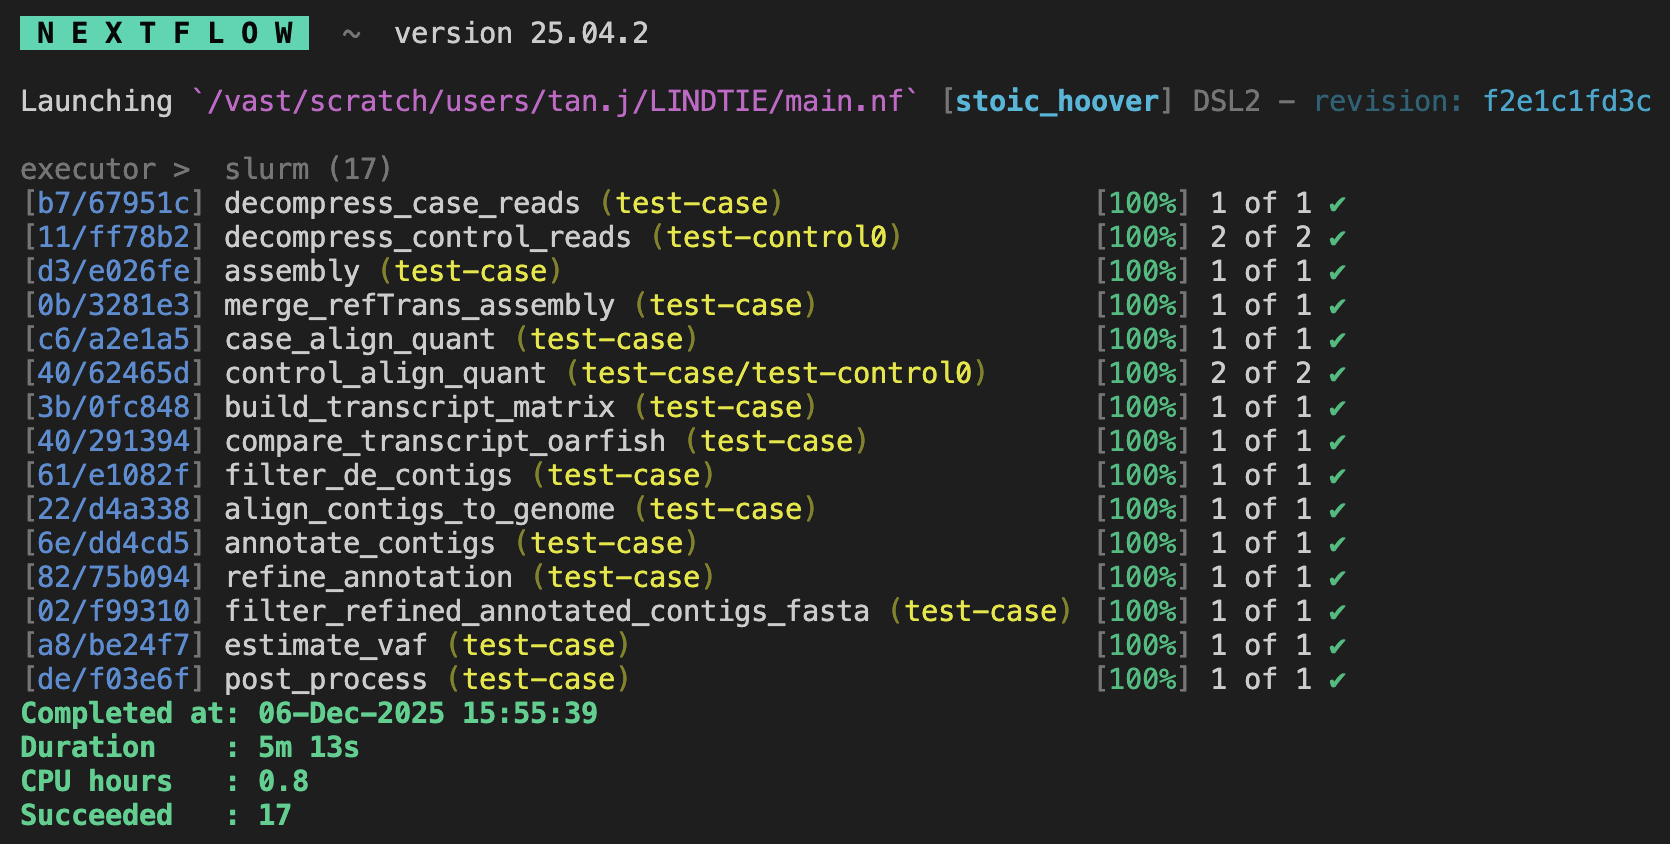
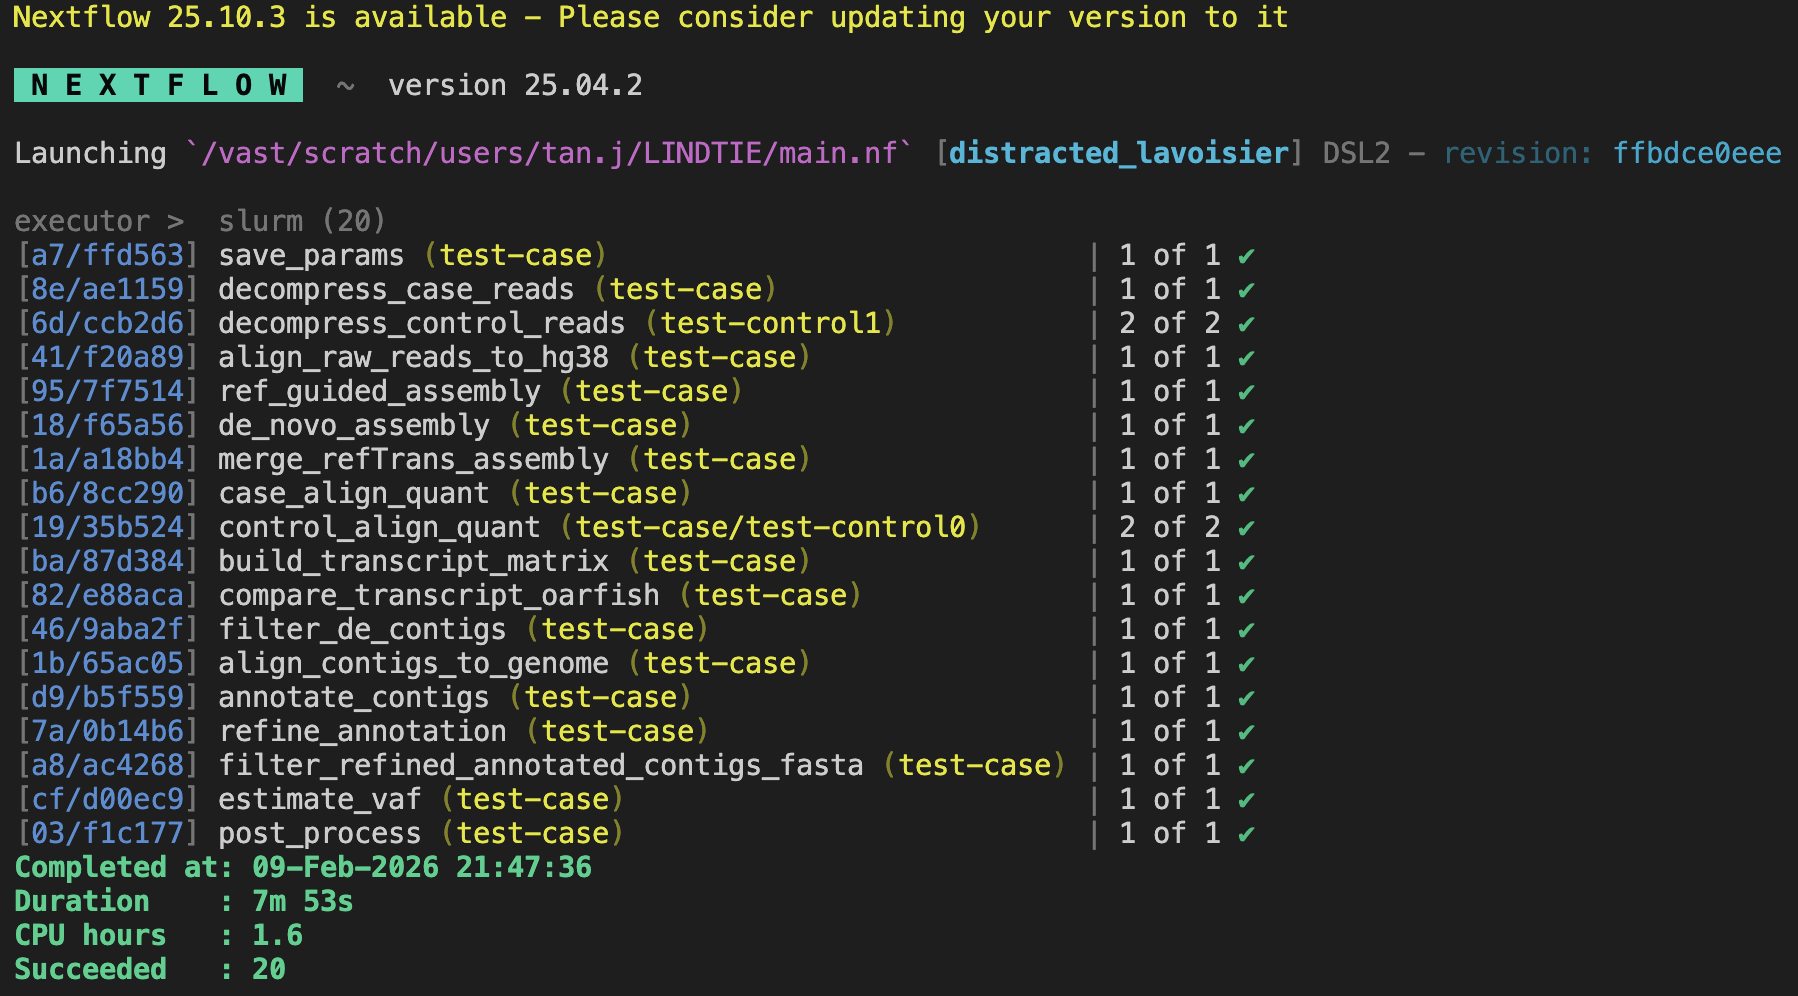
update documentation

Changed region(s): [[0.0, 0.0, 0.9964, 0.9858]]

diff --git a/docs/index.html b/docs/index.html
@@ -1616,7 +1616,7 @@
 
                 <p>LINDTIE is a tool designed to identify aberrant transcripts in cancer using long-read RNA-seq data generated by platforms such as Oxford Nanopore Technologies (ONT) and PacBio. It extends beyond canonical gene fusions to capture the full spectrum of cancer transcriptome rearrangements, including fusion, transcribed structural variant (TSV), and novel splice variant (NSV). The pipeline accepts raw transcriptome (RNA-seq) FASTQ files from case and control samples and produces TSV files containing the novel variants it identifies.</p>
 
-                <p>LINDTIE uses a reference-free approach that integrates de novo assembly with differential transcript expression analysis to uncover previously uncharacterized transcripts. The workflow consists of four core procedures: de novo assembly, quantification, differential expression analysis, and annotation.</p>
+                <p>LINDTIE uses a hybrid strategy that integrates reference-free de novo assembly with reference-guided assembly, combined with differential transcript expression analysis, to uncover previously uncharacterised transcripts. The workflow consists of four core procedures: assembly, quantification, differential expression analysis, and annotation.</p>
 
                 <p>LINDTIE is implemented in <a href="https://www.nextflow.io/docs/latest/index.html" target="_blank">Nextflow</a>, providing users with enhanced control over pipeline execution, including the ability to interrupt runs, adjust parameters from the command line, and resume analyses from previous checkpoints.</p>
 
@@ -1648,7 +1648,7 @@
                             </div>
                             <div class="quick-start-step-content">
                                 <div class="quick-start-step-title">Get References</div>
-                                <div class="quick-start-step-desc"><a href="https://zenodo.org/records/18294960" target="_blank">Zenodo</a> (1.2GB)</div>
+                                <div class="quick-start-step-desc"><a href="https://zenodo.org/records/18531809" target="_blank">Zenodo</a> (1.06GB)</div>
                             </div>
                         </div>
                         <div class="quick-start-step">
@@ -1718,9 +1718,9 @@
                         <div style="display: flex; align-items: center; gap: 16px;">
                             <div style="background: var(--primary-gold); color: #ffffff; border-radius: 50%; width: 32px; height: 32px; display: flex; align-items: center; justify-content: center; font-weight: bold; flex-shrink: 0;">1</div>
                             <div style="flex: 1; background: var(--bg-card); border-radius: 8px; padding: 16px; border-left: 4px solid var(--primary-gold);">
-                                <div style="color: var(--text-primary); font-weight: 600;">De Novo Assembly</div>
-                                <div style="color: var(--text-secondary); font-size: 13px; margin-top: 4px;">RNA-Bloom2 assembles reads into contigs without reference bias</div>
-                                <div style="color: var(--text-muted); font-size: 12px; margin-top: 8px;">Tool: RNA-Bloom2</div>
+                                <div style="color: var(--text-primary); font-weight: 600;">Assembly</div>
+                                <div style="color: var(--text-secondary); font-size: 13px; margin-top: 4px;">Assemble reads into contigs using hybrid strategy: reference-free de novo assembly and reference-guided assembly</div>
+                                <div style="color: var(--text-muted); font-size: 12px; margin-top: 8px;">Tools: RNA-Bloom2, StringTie2</div>
                             </div>
                         </div>
                         <div style="text-align: center; color: var(--primary-gold);">&#x2193;</div>
@@ -1905,10 +1905,10 @@ withLabel: 'process_long' {
             <section class="section" id="references">
                 <h1>Setting Up References</h1>
 
-                <p>Download the compressed pre-built reference package from <a href="https://zenodo.org/records/18294960" target="_blank">Zenodo</a> (1.2GB):</p>
+                <p>Download the compressed pre-built reference package from <a href="https://zenodo.org/records/18531809" target="_blank">Zenodo</a> (1.06GB):</p>
                 <div class="code-block">
                     <button class="copy-btn" onclick="copyCode(this)">Copy</button>
-                    <pre><code>curl -O https://zenodo.org/records/18294960/files/LINDTIE_ref.tar.gz
+                    <pre><code>curl -O https://zenodo.org/records/18531809/files/LINDTIE_ref.tar.gz
 
 # decompress the tar.gz file and remove the tar.gz file                        
 tar xzf LINDTIE_ref.tar.gz && rm LINDTIE_ref.tar.gz</code></pre>
@@ -1920,14 +1920,12 @@ tar xzf LINDTIE_ref.tar.gz && rm LINDTIE_ref.tar.gz</code></pre>
                     <button class="copy-btn" onclick="copyCode(this)">Copy</button>
                     <pre><code>LINDTIE/
 └── ref/
-    ├── chess3.0.fa
-    ├── chess3.0.gtf
-    ├── chess3.0.info
-    ├── Cosmic_CancerGeneCensus_v103_GRCh38_tier.tsv
-    ├── gencode.v49.primary_assembly.annotation.gtf
-    ├── hg38.fa
-    ├── hg38.fa.fai
+    ├── chess3.0_with_HTLV1_HPV_HBV_HIV1_HIV2_EBV.fa
+    ├── chess3.0_with_HTLV1_HPV_HBV_HIV1_HIV2_EBV.gtf
+    ├── chess3.0_with_HTLV1_HPV_HBV_HIV1_HIV2_EBV.info
+    ├── Cosmic_CancerGeneCensus_v103_GRCh38_tier_fusion.tsv
     ├── hg38_splice_junctions.bed
+    ├── hg38_with_HTLV1_HPV_HBV_HIV1_HIV2_EBV.fa
     └── tx2gene.txt
 </code></pre>
                 </div>
@@ -2083,8 +2081,8 @@ mkdir -p controls</code></pre>
 #SBATCH --time=24:00:00
 #SBATCH --mail-type=BEGIN,END,FAIL
 #SBATCH --mail-user=[email redacted]
-#SBATCH --output=script_output/%x.out
-#SBATCH --error=script_output/%x.err
+#SBATCH --output=script_output/%x_%J.out
+#SBATCH --error=script_output/%x_%J.err
 
 module load nextflow/25.04.2 singularity/4.1.5
 
@@ -2111,9 +2109,15 @@ nextflow run $LINDTIE_dir/main.nf -params-file $LINDTIE_dir/params.yaml -profile
                         <tbody>
                             <tr>
                                 <td>⭐ <code>assembly_mode</code></td>
-                                <td>Determines the assembly strategy used by the pipeline</td>
+                                <td>
+                                    <p>Determines the assembly strategy used by the pipeline.</p>
+                                    <p><code>"hybrid"</code>: Combines reference-guided and de novo approaches.</p>
+                                    <p><code>"denovo"</code>: Performs assembly without a reference genome.</p>
+                                    <p><code>"denovo_subset"</code>: Performs de novo assembly on a user-specified subset of reads; the remaining reads are assembled using a reference-guided approach.</p>
+                                    <p><code>"ref_guided"</code>: Uses a reference genome to guide assembly.</p>
+                                </td>
                                 <td><code>hybrid</code></td>
-                                <td><code>"hybrid"</code>, <code>"denovo"</code>, or <code>"ref_guided"</code></td>
+                                <td><code>"hybrid"</code>, <code>"denovo"</code>, <code>"denovo_subset"</code>, or <code>"ref_guided"</code></td>
                                 <td><span class="category-badge">Assembly</span></td>
                             </tr>
                             <tr>
@@ -2129,6 +2133,13 @@ nextflow run $LINDTIE_dir/main.nf -params-file $LINDTIE_dir/params.yaml -profile
                                 <td><code>map-ont</code></td>
                                 <td><code>"map-ont"</code>, <code>"map-pb"</code>, <code>"map-hifi"</code>, or <code>"lr:hq"</code></td>
                                 <td><span class="category-badge">Quantification</span></td>
+                            </tr>
+                            <tr>
+                                <td>⭐ <code>subset_count</code></td>
+                                <td>Specifies the number of reads to subset when the <code>"denovo_subset"</code> mode is selected.</td>
+                                <td><code>NULL</code></td>
+                                <td>integer (e.g., <code>1000000</code>) or <code>NULL</code></td>
+                                <td><span class="category-badge">Assembly</span></td>
                             </tr>
                             <tr>
                                 <td><code>oarfish_num_bootstraps</code></td>
@@ -2166,6 +2177,13 @@ nextflow run $LINDTIE_dir/main.nf -params-file $LINDTIE_dir/params.yaml -profile
                                 <td><span class="category-badge">DE Analysis</span></td>
                             </tr>
                             <tr>
+                                <td><code>⭐detect_viral_integration</code></td>
+                                <td>Toggle to enable or disable the detection of viral integration variants</td>
+                                <td><code>false</code></td>
+                                <td><code>true</code> or <code>false</code></td>
+                                <td><span class="category-badge">Detection</span></td>
+                            </tr>
+                            <tr>
                                 <td><code>min_clip</code></td>
                                 <td>Minimum clipped sequence length to trigger SV detection</td>
                                 <td><code>20</code></td>
@@ -2191,6 +2209,13 @@ nextflow run $LINDTIE_dir/main.nf -params-file $LINDTIE_dir/params.yaml -profile
                                 <td>Maximum allowed mismatches for splice motifs</td>
                                 <td><code>1</code></td>
                                 <td>integer (e.g., <code>1</code>)</td>
+                                <td><span class="category-badge">Detection</span></td>
+                            </tr>
+                            <tr>
+                                <td><code>single_sample_min_vaf</code></td>
+                                <td>Minimum variant allele frequency (VAF) threshold for retaining variants when <code>RUN_DE</code> is <code>false</code></td>
+                                <td><code>0.1</code></td>
+                                <td>numeric (e.g., <code>0.1</code>)</td>
                                 <td><span class="category-badge">Detection</span></td>
                             </tr>
                             <tr>
@@ -2529,58 +2554,68 @@ single_sample_min_vaf: 0.1  # default 0.1
                         </tr>
                         <tr>
                             <td>33</td>
+                            <td>COSMIC_fusion</td>
+                            <td>Indicates whether any gene involved in the event is listed in COSMIC Fusion. Yes means at least one overlapping gene is reported as a fusion partner in COSMIC; No means none are listed.</td>
+                        </tr>
+                        <tr>
+                            <td>34</td>
                             <td>site1_feature</td>
                             <td>The genomic feature annotation at the exact position of end 1 (e.g., CDS, UTR, intron, intergenic).</td>
                         </tr>
                         <tr>
-                            <td>34</td>
+                            <td>35</td>
                             <td>site2_feature</td>
                             <td>The genomic feature annotation at the exact position of end 2 (e.g., CDS, UTR, intron, intergenic).</td>
                         </tr>
                         <tr>
-                            <td>35</td>
+                            <td>36</td>
                             <td>is_coding</td>
                             <td>Indicates whether the variant involves coding regions. This is determined by evaluating whether site1_feature and site2_feature are annotated as coding sequences (i.e., CDS).</td>
                         </tr>
                         <tr>
-                            <td>36</td>
+                            <td>37</td>
                             <td>contig_id</td>
                             <td>Contig name from the de novo assembly.</td>
                         </tr>
                         <tr>
-                            <td>37</td>
+                            <td>38</td>
                             <td>unique_contig_ID</td>
                             <td>ID of the modified SuperTranscript used in visualization outputs.</td>
                         </tr>
                         <tr>
-                            <td>38</td>
+                            <td>39</td>
                             <td>contig_len</td>
                             <td>Length of the contig sequence.</td>
                         </tr>
                         <tr>
-                            <td>39</td>
+                            <td>40</td>
                             <td>contig_cigar</td>
                             <td>CIGAR string representing the contig's genome alignment (may contain two strings if soft/hard-clipped).</td>
                         </tr>
                         <tr>
-                            <td>40</td>
+                            <td>41</td>
                             <td>seq_loc1</td>
                             <td>Location string for the first sequence region (e.g., contig123:100–140).</td>
                         </tr>
                         <tr>
-                            <td>41</td>
+                            <td>42</td>
                             <td>seq_loc2</td>
                             <td>Location string for the second sequence region, if applicable.</td>
                         </tr>
                         <tr>
-                            <td>42</td>
+                            <td>43</td>
                             <td>seq1</td>
                             <td>20 bp sequence around the main variant site.</td>
                         </tr>
                         <tr>
-                            <td>43</td>
+                            <td>44</td>
                             <td>seq2</td>
                             <td>20 bp sequence around the second variant site (if applicable).</td>
+                        </tr>
+                        <tr>
+                            <td>45</td>
+                            <td>variant_score</td>
+                            <td>Score used for variant prioritization.</td>
                         </tr>
                     </tbody>
                 </table>
@@ -2601,17 +2636,12 @@ single_sample_min_vaf: 0.1  # default 0.1
                     </thead>
                     <tbody>
                         <tr>
-                            <td>44</td>
-                            <td>variant_score</td>
-                            <td>Score used for variant prioritization (from the new scoring system).</td>
-                        </tr>
-                        <tr>
-                            <td>45</td>
+                            <td>46</td>
                             <td>rank_within_contig</td>
                             <td>Rank of each annotation for a given contig based on its score; <strong>1 = highest-scoring annotation</strong>.</td>
                         </tr>
                         <tr>
-                            <td>46</td>
+                            <td>47</td>
                             <td>is_primary</td>
                             <td>Indicates whether this annotation was selected as the <em>primary</em> variant for that contig (i.e., the entry included in <code>&lt;caseName&gt;_results.tsv</code>).</td>
                         </tr>
@@ -2655,8 +2685,8 @@ single_sample_min_vaf: 0.1  # default 0.1
 │   ├── denovo_read_counts.log (assembly_mode = hybrid or denovo or denovo_subset)
 │   ├── rnabloom.transcripts.fa (assembly_mode = hybrid or denovo or denovo_subset)
 │   ├── read_counts_summary.log (assembly_mode = hybrid or ref_guided or denovo_subset)
-│   ├── confident_mapped.bam (assembly_mode = hybrid or ref_guided or denovo_subset)
-│   ├── reads_all_sorted.bam (assembly_mode = hybrid or ref_guided or denovo_subset)
+│   ├── confident_mapped.bam & confident_mapped.bam.bai (assembly_mode = hybrid or ref_guided or denovo_subset)
+│   ├── reads_all_sorted.bam & reads_all_sorted.bam.bai (assembly_mode = hybrid or ref_guided or denovo_subset)
 │   ├── stringtie2_assembly.fa (assembly_mode = hybrid or ref_guided or denovo_subset)
 │   └── stringtie2_assembly.gtf (assembly_mode = hybrid or ref_guided or denovo_subset)
 ├── 02-Quantification
@@ -3130,7 +3160,7 @@ nextflow run $LINDTIE_dir/main.nf -params-file $LINDTIE_dir/params.yaml -profile
 cases/*.fastq.gz controls/*.fastq.gz</code></pre>
                 </div>
 
-                <p>Approximate run time: 5-6 minutes</p>
+                <p>Approximate run time: 8-10 minutes</p>
 
                 <p>Once LINDTIE has finished running, you should see output on the terminal similar to the following:</p>
                     
@@ -3153,19 +3183,19 @@ cases/*.fastq.gz controls/*.fastq.gz</code></pre>
                         <tbody>
                             <tr>
                                 <td>AS</td>
-                                <td>4</td>
+                                <td>5</td>
                             </tr>
                             <tr>    
                                 <td>DEL</td>
-                                <td>5</td>
+                                <td>6</td>
                             </tr>
                             <tr>
                                 <td>EE</td>
-                                <td>4</td>
+                                <td>6</td>
                             </tr>
                             <tr>
                                 <td>FUS</td>
-                                <td>21</td>
+                                <td>15</td>
                             </tr>
                             <tr>
                                 <td>IGR</td>
@@ -3173,11 +3203,11 @@ cases/*.fastq.gz controls/*.fastq.gz</code></pre>
                             </tr>
                             <tr>
                                 <td>INS</td>
-                                <td>11</td>
+                                <td>15</td>
                             </tr>
                             <tr>
                                 <td>NE</td>
-                                <td>4</td>
+                                <td>1</td>
                             </tr>
                             <tr>
                                 <td>NEJ</td>
@@ -3185,7 +3215,7 @@ cases/*.fastq.gz controls/*.fastq.gz</code></pre>
                             </tr>
                             <tr>
                                 <td>PNJ</td>
-                                <td>2</td>
+                                <td>9</td>
                             </tr>
                             <tr>
                                 <td>RI</td>
@@ -3193,11 +3223,11 @@ cases/*.fastq.gz controls/*.fastq.gz</code></pre>
                             </tr>
                             <tr>
                                 <td>UN</td>
-                                <td>5</td>
+                                <td>4</td>
                             </tr>
                             <tr>
                                 <td><strong>TOTAL</strong></td>
-                                <td><strong>65</strong></td>
+                                <td><strong>70</strong></td>
                             </tr>
                         </tbody>
                     </table>    
@@ -3442,6 +3472,7 @@ bioconda::gffread=0.12.7
 bioconda::stringtie=2.2.3
 bioconda::minimap2=2.30
 bioconda::samtools=1.22
+bioconda::bbmap=39.52
 bioconda::oarfish=0.8.1
 bioconda::bio=1.8.0
 bioconda::pysam=0.23.3